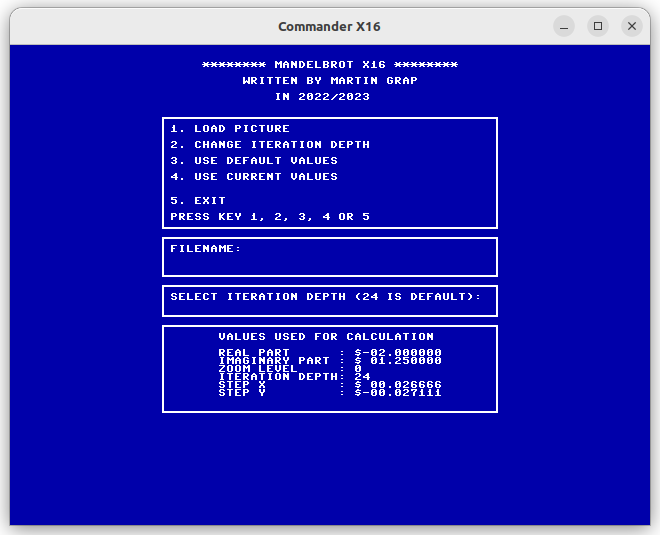
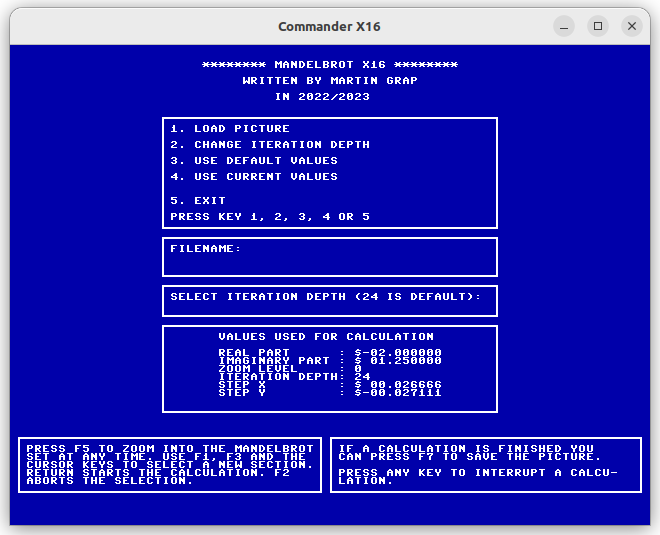
Add help messages

Changed region(s): [[0.0303, 0.8075, 0.9697, 0.9271]]

diff --git a/README.md b/README.md
@@ -62,9 +62,9 @@ by pressing a key. If that key is `F5` you can zoom into the Mandelbrot set (see
 When any other key is pressed the parameters used for calculation are presented. If you then press `RETURN` the
 calculation is stopped and the program returns to the main menu. Any other key resumes the calculation.
 
-If all calculations for a picture have been performed the program waits for a key press. You can press `F5` 
-to zoom further into the set (see below) or press `F7` to save the picture on SD card. If you press any other 
-key the values used for the calculation are printed to the screen.
+If all calculations for a picture have been performed the program waits for a key press while showing the
+picture. You can either press `F5` to zoom further into the set (see below) or press `F7` to save the picture 
+on SD card. If you press any other key the values used for the calculation are printed to the screen.
 
 # Zooming into the Mandelbrot set
 
